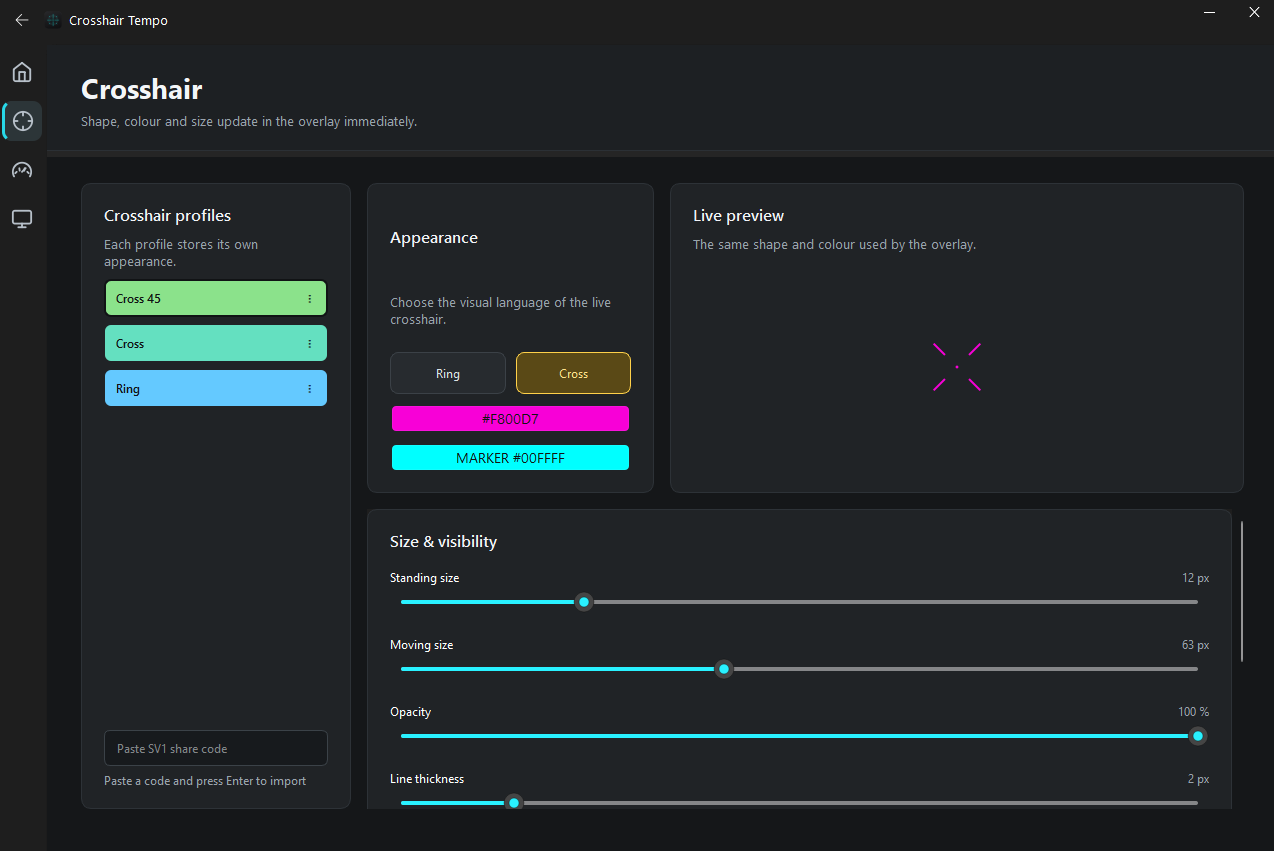
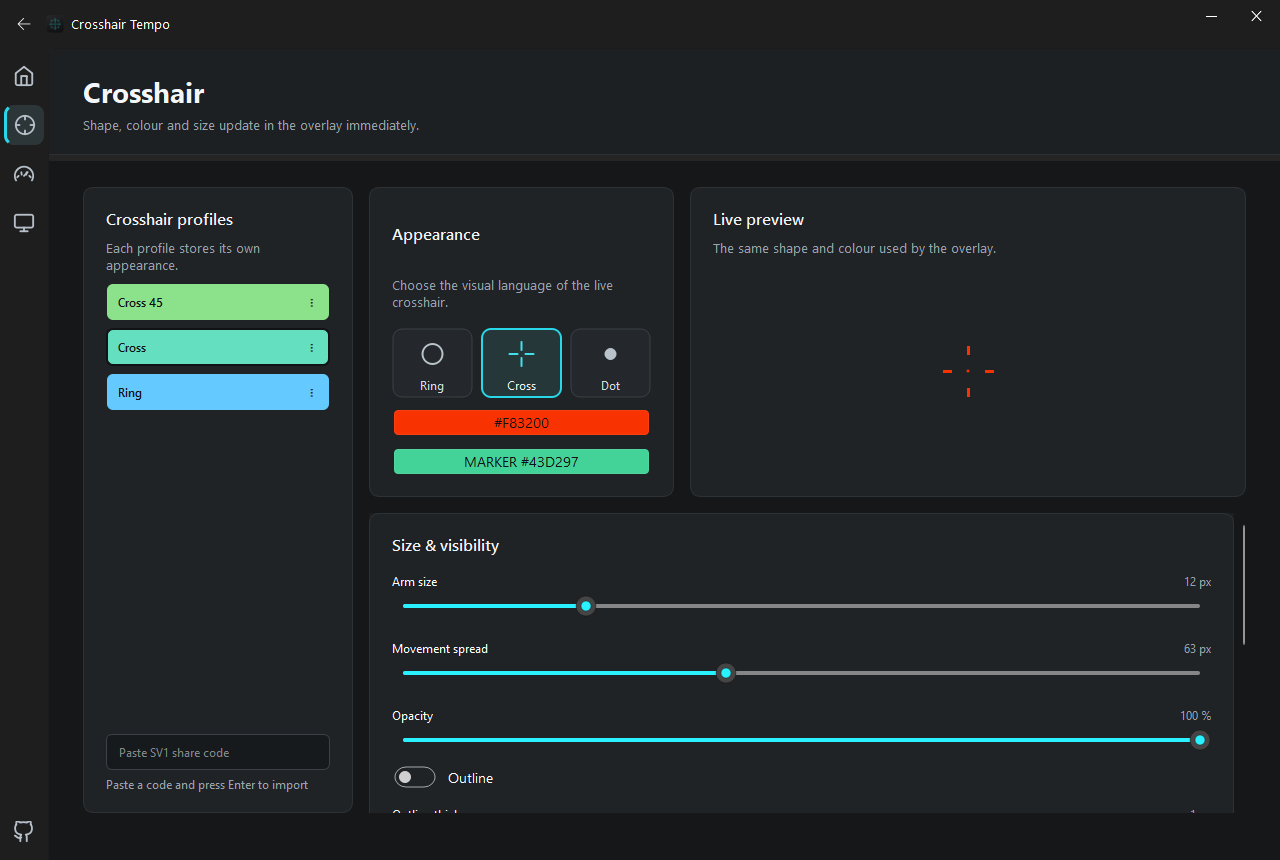
Refresh README screenshot before pushes

diff --git a/scripts/capture_ui_screenshot.py b/scripts/capture_ui_screenshot.py
@@ -1,0 +1,51 @@
+"""Capture the Crosshair settings page for the README."""
+from __future__ import annotations
+
+import sys
+import tempfile
+from pathlib import Path
+
+PROJECT_ROOT = Path(__file__).resolve().parent.parent
+sys.path.insert(0, str(PROJECT_ROOT))
+
+from PySide6.QtCore import QTimer
+from PySide6.QtWidgets import QApplication
+from qfluentwidgets import Theme, setTheme
+
+from crosshair_tempo.app import SettingsWindow
+from crosshair_tempo.crosshair_profiles import CrosshairProfileStore
+from crosshair_tempo.models import Settings
+from crosshair_tempo.timing import MovementFeedbackEngine
+
+
+OUTPUT_PATH = PROJECT_ROOT / "assets" / "crosshair-customisation.png"
+
+
+def main() -> int:
+    application = QApplication(sys.argv)
+    setTheme(Theme.DARK)
+    # Do not use a developer's local settings or profiles: the README image
+    # must stay identical for every clone and every push.
+    with tempfile.TemporaryDirectory() as directory:
+        settings = Settings(active_crosshair_profile="cross")
+        profiles = CrosshairProfileStore(Path(directory))
+        engine = MovementFeedbackEngine(settings)
+        window = SettingsWindow(
+            settings, engine.snapshot, lambda _enabled: None, lambda: None,
+            lambda: None, application.quit, application.quit, profiles,
+        )
+        window.resize(1280, 860)
+        window._activate_page("crosshair")
+        window.show()
+
+        def capture() -> None:
+            OUTPUT_PATH.parent.mkdir(parents=True, exist_ok=True)
+            window.grab().save(str(OUTPUT_PATH), "PNG")
+            application.quit()
+
+        QTimer.singleShot(350, capture)
+        return application.exec()
+
+
+if __name__ == "__main__":
+    raise SystemExit(main())

diff --git a/README.md b/README.md
@@ -21,6 +21,8 @@ Click the preview to open the full-quality video.
 
 ![Crosshair Tempo crosshair customisation screen](assets/crosshair-customisation.png)
 
+The screenshot is refreshed by the local Git pre-push hook. Run `scripts/install-hooks.ps1` once after cloning to enable it.
+
 Create and save named crosshair profiles, then customise their shape, colours, size, opacity, rotation, line thickness, gap, and centre dot. Enable **CS2-only mode** to show the visualisation only while Counter-Strike 2 is focused.
 
 ## Status
